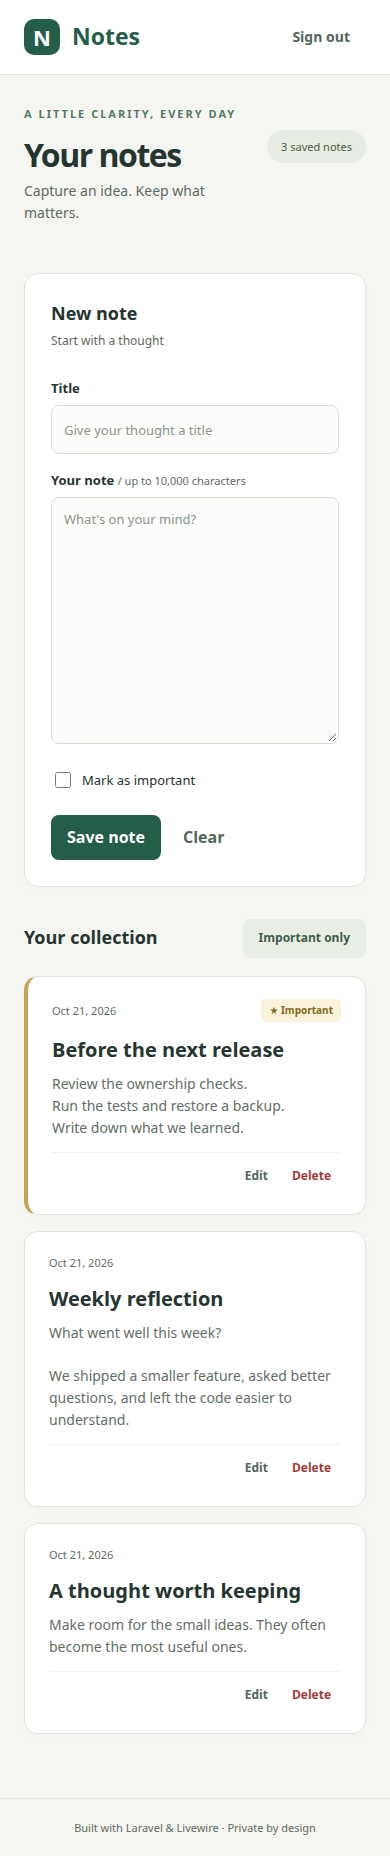
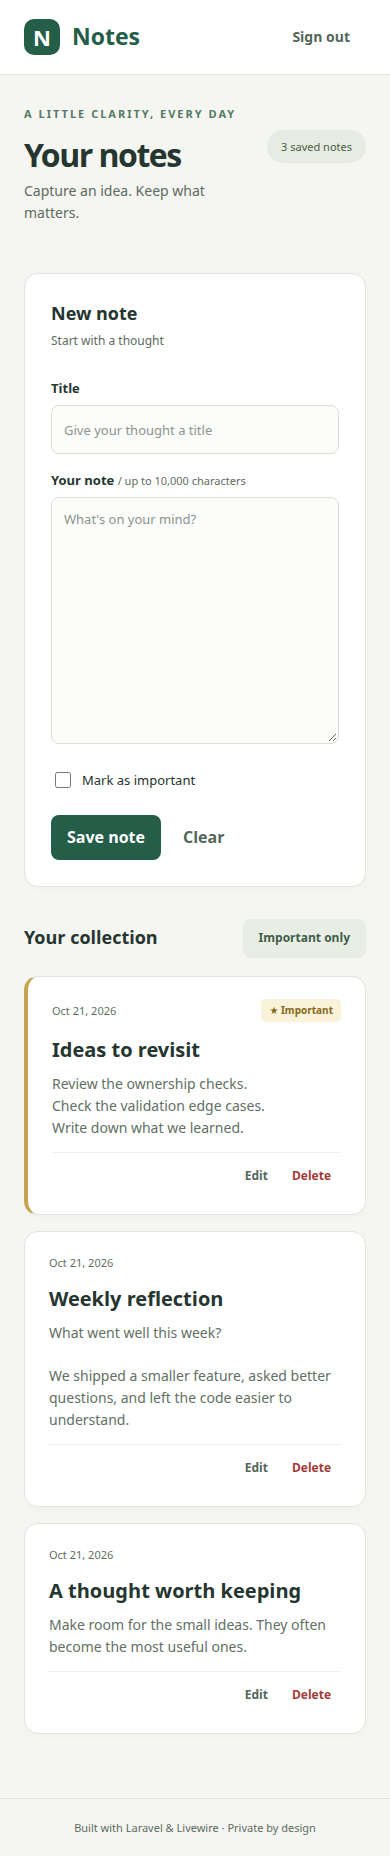
docs: document local setup, Laravel limitations, tests and real screenshots

Changed region(s): [[0.1231, 0.5625, 0.7077, 0.625]]

diff --git a/tests/Browser/notes.spec.js b/tests/Browser/notes.spec.js
@@ -19,7 +19,7 @@ test('private notes work through registration, CRUD, filtering, reload and logou
   for (const [title, content, important] of [
     ['A thought worth keeping', 'Make room for the small ideas. They often become the most useful ones.', false],
     ['Friday reflection', 'What went well this week?\n\nWe shipped a smaller feature, asked better questions, and left the code easier to understand.', false],
-    ['Before the next release', 'Review the ownership checks.\nRun the tests and restore a backup.\nWrite down what we learned.', true],
+    ['Ideas to revisit', 'Review the ownership checks.\nCheck the validation edge cases.\nWrite down what we learned.', true],
   ]) {
     await page.getByLabel('Title', { exact: true }).fill(title);
     await page.getByLabel('Your note').fill(content);
@@ -32,7 +32,7 @@ test('private notes work through registration, CRUD, filtering, reload and logou
   expect(accessibility.violations.filter(v => ['critical', 'serious'].includes(v.impact))).toEqual([]);
   await page.getByRole('button', { name: 'Important only', exact: true }).click();
   await expect(page.getByRole('heading', { name: 'Friday reflection', exact: true })).toHaveCount(0);
-  await expect(page.getByRole('heading', { name: 'Before the next release', exact: true })).toBeVisible();
+  await expect(page.getByRole('heading', { name: 'Ideas to revisit', exact: true })).toBeVisible();
   await page.getByRole('button', { name: 'Show all notes', exact: true }).click();
   await page.getByRole('button', { name: 'Edit Friday reflection', exact: true }).click();
   await expect(page.getByRole('heading', { name: 'Edit note', exact: true })).toBeVisible();
@@ -56,7 +56,7 @@ test('private notes work through registration, CRUD, filtering, reload and logou
   await other.getByLabel('Confirm password').fill('portfolio-demo-456');
   await other.getByRole('button', { name: 'Create account', exact: true }).click();
   await expect(other.getByRole('heading', { name: 'Room for your next idea' })).toBeVisible();
-  await expect(other.getByText('Before the next release', { exact: true })).toHaveCount(0);
+  await expect(other.getByText('Ideas to revisit', { exact: true })).toHaveCount(0);
   await context.close();
   page.once('dialog', dialog => dialog.accept());
   await page.getByRole('button', { name: 'Delete Weekly reflection', exact: true }).click();

diff --git a/README.md b/README.md
@@ -1,76 +1,129 @@
-<p align="center">
-  <a href="https://laravel.com" target="_blank">
-    <img src="https://raw.githubusercontent.com/laravel/art/master/logo-lockup/5%20SVG/2%20CMYK/1%20Full%20Color/laravel-logolockup-cmyk-red.svg" width="200" alt="Laravel Logo">
-  </a>
-</p>
+# Notes · Laravel & Livewire
 
-<h1 align="center">Laravel Livewire Notes Application</h1>
+A private notes application focused on Laravel development: authentication, authorization, validation, reactive forms, and tested data handling. Docker provides a simple way to run it on your PC.
 
-<p align="center">
-  <a href="https://github.com/dionis1/notes-app/actions">
-    <img src="https://img.shields.io/github/actions/workflow/status/dionis1/notes-app/tests.yml" alt="Build Status">
-  </a>
-  <a href="https://packagist.org/packages/livewire/livewire">
-    <img src="https://img.shields.io/packagist/v/livewire/livewire" alt="Livewire Version">
-  </a>
-  <a href="https://opensource.org/licenses/MIT">
-    <img src="https://img.shields.io/badge/license-MIT-brightgreen" alt="License">
-  </a>
-</p>
+![Notes workspace](docs/screenshots/notes-desktop.png)
 
----
+## Features
 
-## 🚀 Overview
+- Register, sign in, sign out, and reset your password.
+- Create, edit, delete, and mark notes as important.
+- Private notes with ownership-scoped queries and authorization policies.
+- Important-only filtering and pagination (10 notes per page).
+- Locked Livewire IDs and atomic version checks for safe edits and deletes.
+- Preserved drafts when a record changes or is deleted in another session.
+- Bounded validation, escaped output, authentication throttling, and CSRF protection.
+- Responsive forms with accessible labels, edit focus, delete confirmation, and request failure feedback.
+- Local CSS/JS assets, PHP feature tests, browser tests, and PHP static analysis.
 
-A simple **Notes Management Application** built with **Laravel** and **Livewire**.  
-Create, edit, delete, and filter notes — including marking them as **important** — all in real-time with Livewire.
+Livewire updates the current page through HTTP requests without reloading it. Separate browsers do not receive pushed updates; conflicting writes are detected when saving.
 
----
+## Laravel has not been upgraded
 
-## ✨ Features
+**Laravel remains pinned to its original version, 10.49.1.** Compatible dependencies were updated, but Laravel 10 security support ended on 4 February 2025. Four Composer advisory entries remain in Laravel itself, including overlapping entries for an email-validation issue.
 
-- 📝 Create, edit, and delete notes  
-- ⭐ Mark notes as important  
-- 🔍 Filter to show only important notes  
-- ⚡ Real-time updates (no page reloads)  
-- ✅ Built with Laravel + Livewire  
-- 💬 Flash messages for instant feedback  
+This is a local learning/portfolio application, not a claim of current framework support or a clean Composer audit. See [known security limitations](docs/SECURITY.md), the [audit snapshot](docs/composer-audit.json), and the [official support table](https://laravel.com/framework/docs/10.x/releases). A future framework upgrade is still needed.
 
----
+## Run on your PC with Docker
 
-## 🛠 Installation
+Requirements: Docker Engine and Docker Compose. You do not need PHP, Composer, Node, or a database server installed on your PC.
 
-1. **Clone the repository**
-   ```bash
-   git clone git@github.com:dionis1/notes-app.git
-   cd notes-app
+```bash
+git clone https://github.com/dionis1/notes-app.git
+cd notes-app
+docker compose up --build -d
+```
 
-2. **Install dependencies**
-   ```bash
-   composer install
+Open [http://localhost:8000](http://localhost:8000) and create your account. The first build may take several minutes. If your machine requires it, prefix Docker commands with `sudo`.
 
-3. **Set up the environment**
-   ```bash
-   cp .env.example .env
-   php artisan key:generate
+```bash
+# Check the app and its startup logs:
+docker compose ps
+docker compose logs --tail=50 app
 
-4. **Set up the environment**
-   ```bash
-   php artisan migrate
+# Run the Laravel tests inside Docker:
+docker compose exec app php artisan test
 
-5. **Set up the environment**
-   ```bash
-   php artisan serve
+# Stop the application while preserving your notes:
+docker compose down
+```
 
-6. **Visit the application**  
+Notes, sessions, and the generated local key persist in a named volume. **`docker compose down -v` deletes that data.** The app binds to localhost only. Rebuild after code changes. For another port:
 
-<p align="center">
-  <a href="http://127.0.0.1:8000/notes" target="_blank" style="background-color:#f44336;color:white;padding:10px 20px;text-decoration:none;border-radius:5px;font-weight:bold;">
-    Open Notes App
-  </a>
-</p>
+```bash
+APP_PORT=8001 docker compose up --build -d
+```
 
-   
+Password reset links are logged locally instead of emailed. Request a reset and inspect `docker compose logs app`; keep those links private. There is no seeded account or default password.
 
+## Run with local PHP
 
+Requirements: PHP 8.2 with PDO SQLite, mbstring and DOM/XML, Composer 2, and Node 22.
 
+```bash
+composer install
+npm ci
+cp .env.example .env
+php artisan key:generate
+touch storage/app/notes.sqlite
+php artisan migrate
+npm run build
+php artisan serve
+```
+
+Open [http://localhost:8000](http://localhost:8000). For CSS/JS development, run `npm run dev` in a second terminal. `.env.example` uses SQLite and log mail.
+
+## Tests and code checks
+
+```bash
+php artisan test
+vendor/bin/pint --test
+vendor/bin/phpstan analyse --no-progress
+npm run build
+composer audit
+npm audit
+```
+
+`composer audit` currently reports the known Laravel findings described above. The test configuration explicitly overrides both environment and server values so tests use SQLite in memory, array sessions, and a test-only key even when Docker has different settings.
+
+The PHP suite covers authentication and recovery, session revocation, throttling, ownership, forged IDs, locked properties, validation limits, filtering, pagination, escaping, concurrent edits, and deleted records. Browser checks exercise registration, CRUD, filtering, reload persistence, account isolation, logout, CSRF rejection, mobile overflow, and serious/critical accessibility findings.
+
+To run the browser tests with local PHP:
+
+```bash
+npx playwright install --with-deps chromium
+npm run test:browser
+```
+
+Or use an installed Chrome: `CHROME_BIN=/usr/bin/google-chrome npm run test:browser`. The tests start a separate server on port 8010 and reset only `/tmp/notes-browser.sqlite`. That database is disposable. Screenshots are captured from the browser test with synthetic account and note data. Automated accessibility checks do not replace manual keyboard and screen-reader testing.
+
+## Screenshots
+
+### Sign in
+
+![Sign-in page](docs/screenshots/sign-in.png)
+
+### Edit a note
+
+![Editing a note](docs/screenshots/edit-note.png)
+
+### Mobile
+
+<img src="docs/screenshots/notes-mobile.png" alt="Notes workspace on a 390-pixel-wide viewport" width="390">
+
+## Laravel structure
+
+- `app/Livewire/Notes.php`: validated form state, filtering, pagination, and user feedback.
+- `app/Services/NoteService.php`: owner-scoped lookups and atomic version-aware mutations.
+- `app/Policies/NotePolicy.php`: explicit authorization checks.
+- `app/Http/Controllers/AuthController.php`: account, session, and password recovery flows.
+- `tests/Feature`: database-backed Laravel and Livewire tests.
+- `tests/Browser`: real browser interaction and accessibility checks.
+
+See [Laravel design decisions](docs/ARCHITECTURE.md) for the reasoning behind those boundaries.
+
+Anonymous notes from the original schema remain unowned and invisible after migration. An operator must verify ownership before assigning them; registration never automatically claims old notes.
+
+## License
+
+[MIT](LICENSE).

diff --git a/docs/ARCHITECTURE.md b/docs/ARCHITECTURE.md
@@ -1,0 +1,27 @@
+# Laravel design decisions
+
+## Framework constraint
+
+Laravel remains pinned to 10.49.1. Compatible dependencies were refreshed. Its expired support and remaining framework audit entries are documented in SECURITY.md. No framework upgrade is claimed.
+
+## Private notes
+
+New notes belong to the authenticated user. Every query starts from the user's notes relationship. Policies protect updates and deletes; foreign records return 404. Locked Livewire IDs/versions provide additional protection, while ownership checks remain the actual authorization boundary.
+
+The ownership migration leaves old anonymous records unowned and invisible. A new account never inherits them. Assign an owner only after verifying the records belong to that person.
+
+## Keep the service where it adds behavior
+
+The component manages form state and validation. The service performs version-aware mutations. The original pass-through repository/interface wrappers were removed because they added no distinct storage behavior. Eloquent relationships provide scoped reads without additional abstraction.
+
+## Concurrent edits
+
+Each note has an integer version. Update and delete SQL includes the owner and expected version. A stale write produces a conflict without changing the current record. The component preserves unsaved draft text. Saving a deleted record never falls through to creating a replacement.
+
+## Bounded lists
+
+The component queries 10 notes per page rather than serializing a complete collection into public state. Ordering uses created_at followed by ID so equal timestamps remain deterministic. Indexes support ownership, importance, and ordering. Filters reset the page; stable wire:key values preserve list identity.
+
+## Local development
+
+SQLite and a single Docker service keep the project straightforward to run on a PC. Node compiles local CSS/JS when building the image; PHP serves the app, and a named volume preserves notes and the local key. No other services or delivery infrastructure are included.

diff --git a/docs/SECURITY.md b/docs/SECURITY.md
@@ -1,0 +1,16 @@
+# Framework version and remaining risks
+
+Laravel is intentionally pinned to **10.49.1**. It has not been upgraded. Laravel 10 security support ended on 4 February 2025. Compatible dependencies were refreshed, but the current Composer audit reports four entries in Laravel itself:
+
+| Advisory ID | Finding |
+| --- | --- |
+| PKSA-d5tc-s1qs-h781 | XSS in debug page information |
+| PKSA-m5cs-t1y6-qpcs | Temporary signed URL path confusion |
+| PKSA-3r5d-mb8f-1qw9 | Email validation CRLF injection |
+| PKSA-mdq4-51ck-6kdq | Email validation CRLF injection (overlapping entry) |
+
+Full upstream advisory links and affected versions are in [composer-audit.json](composer-audit.json). Run `composer audit` for the raw findings; it is expected to fail while those advisories remain. The application explicitly rejects control characters and whitespace inside email addresses, but this is not a framework patch or a claim that all affected framework behavior has been fixed.
+
+Keep this app local while the unsupported framework constraint remains. Local password recovery links are written to Docker logs rather than sent by an email provider. Do not share those logs or use real sensitive information in screenshots.
+
+The Laravel implementation includes authentication, scoped ownership, policies, CSRF middleware, escaped views, locked IDs/versions, session regeneration, authentication throttling, and atomic write preconditions. Tests exercise those application boundaries; they do not remove framework-level risks.
